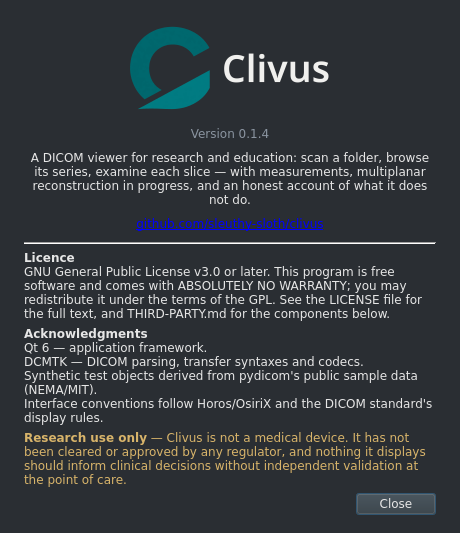
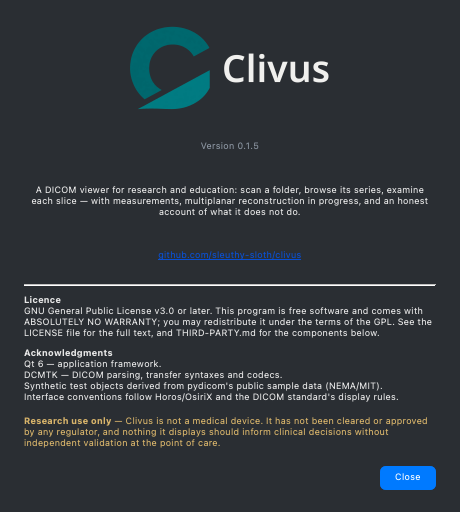
docs(readme): real captures from the app; concept boards reduced to what is unbuilt
- Hero, welcome and About images are now captures produced by the application itself
  (--capture on a macOS runner with a window server), including the canvas
  composited from its own GL framebuffer. The hero shows a CT slice with the
  series browser and window/level fields.
- The two concept boards that the real captures supersede (welcome, About) are
  gone; the remaining three stay, captioned with what shipped and what is still
  only in the picture.
- Verified before replacing: series rows render middle dots (not 'Â·'), row
  singular/plural wording is right, and the canvas overlay is readable text —
  the apparent garble at 128x128 is upscaling aliasing, checked at 4x crop.

Changed region(s): [[0.0304, 0.0625, 0.9739, 0.9688], [0.487, 0.0938, 0.7304, 0.1875], [0.3652, 0.0625, 0.3957, 0.0938]]

diff --git a/README.md b/README.md
@@ -56,7 +56,7 @@ roadmap instead of a guess.
 
 ## What Clivus does today
 
-![Clivus — the series browser, slice navigation, window/level presets and the canvas in one dark, restrained workspace](docs/img/clivus-windows.png)
+![Clivus viewing a CT slice: series browser with thumbnails, window/level fields, and the canvas — captured from the running application](docs/img/clivus-windows.png)
 
 Real, working, test-backed:
 
@@ -249,13 +249,10 @@ strips `NDEBUG` for test targets — without that, the CI suite proved nothing.
 
 ## Design direction: the concept boards, and what they ask for
 
-These five boards are **design targets, not screenshots of the current build.** They were drawn
-ahead of the shipped interface, so several elements in them do not exist in the code yet — treat
-them as the direction of travel, with the differences named below each one.
-
-![Concept: welcome screen with recent folders and a drop zone](docs/img/concepts/concept-welcome.png)
-*Concept welcome. Shipped today: the lockup, the one-line description and Open Folder. Not built:
-recent folders, a drag-and-drop zone with a size cap, an `Edit` menu.*
+These boards are **design targets, not screenshots of the current build.** They were drawn ahead of
+the shipped interface, so several elements in them do not exist in the code yet — treat them as the
+direction of travel, with the differences named below each one. (The welcome and About boards have
+since been superseded by real captures of the shipped screens, above.)
 
 ![Concept: viewer with patient banner and slice-level series browser](docs/img/concepts/concept-viewer.png)
 *Concept viewer. Shipped today: series browser, window/level, slice strip, status bar. Not built:
@@ -268,10 +265,6 @@ control.*
 ![Concept: multi-frame browsing](docs/img/concepts/concept-multiframe.png)
 *Concept multi-frame browsing. Shipped today: multi-frame objects page slice by slice, RT Dose
 decodes in Gy; MPR opens as a separate three-plane window rather than in this layout.*
-
-![Concept: About screen](docs/img/concepts/concept-about.png)
-*Concept About. Shipped today: the lockup, version, repository link, licence, acknowledgments and
-the research-use disclaimer — see the real capture above.*
 
 ## Roadmap
 
